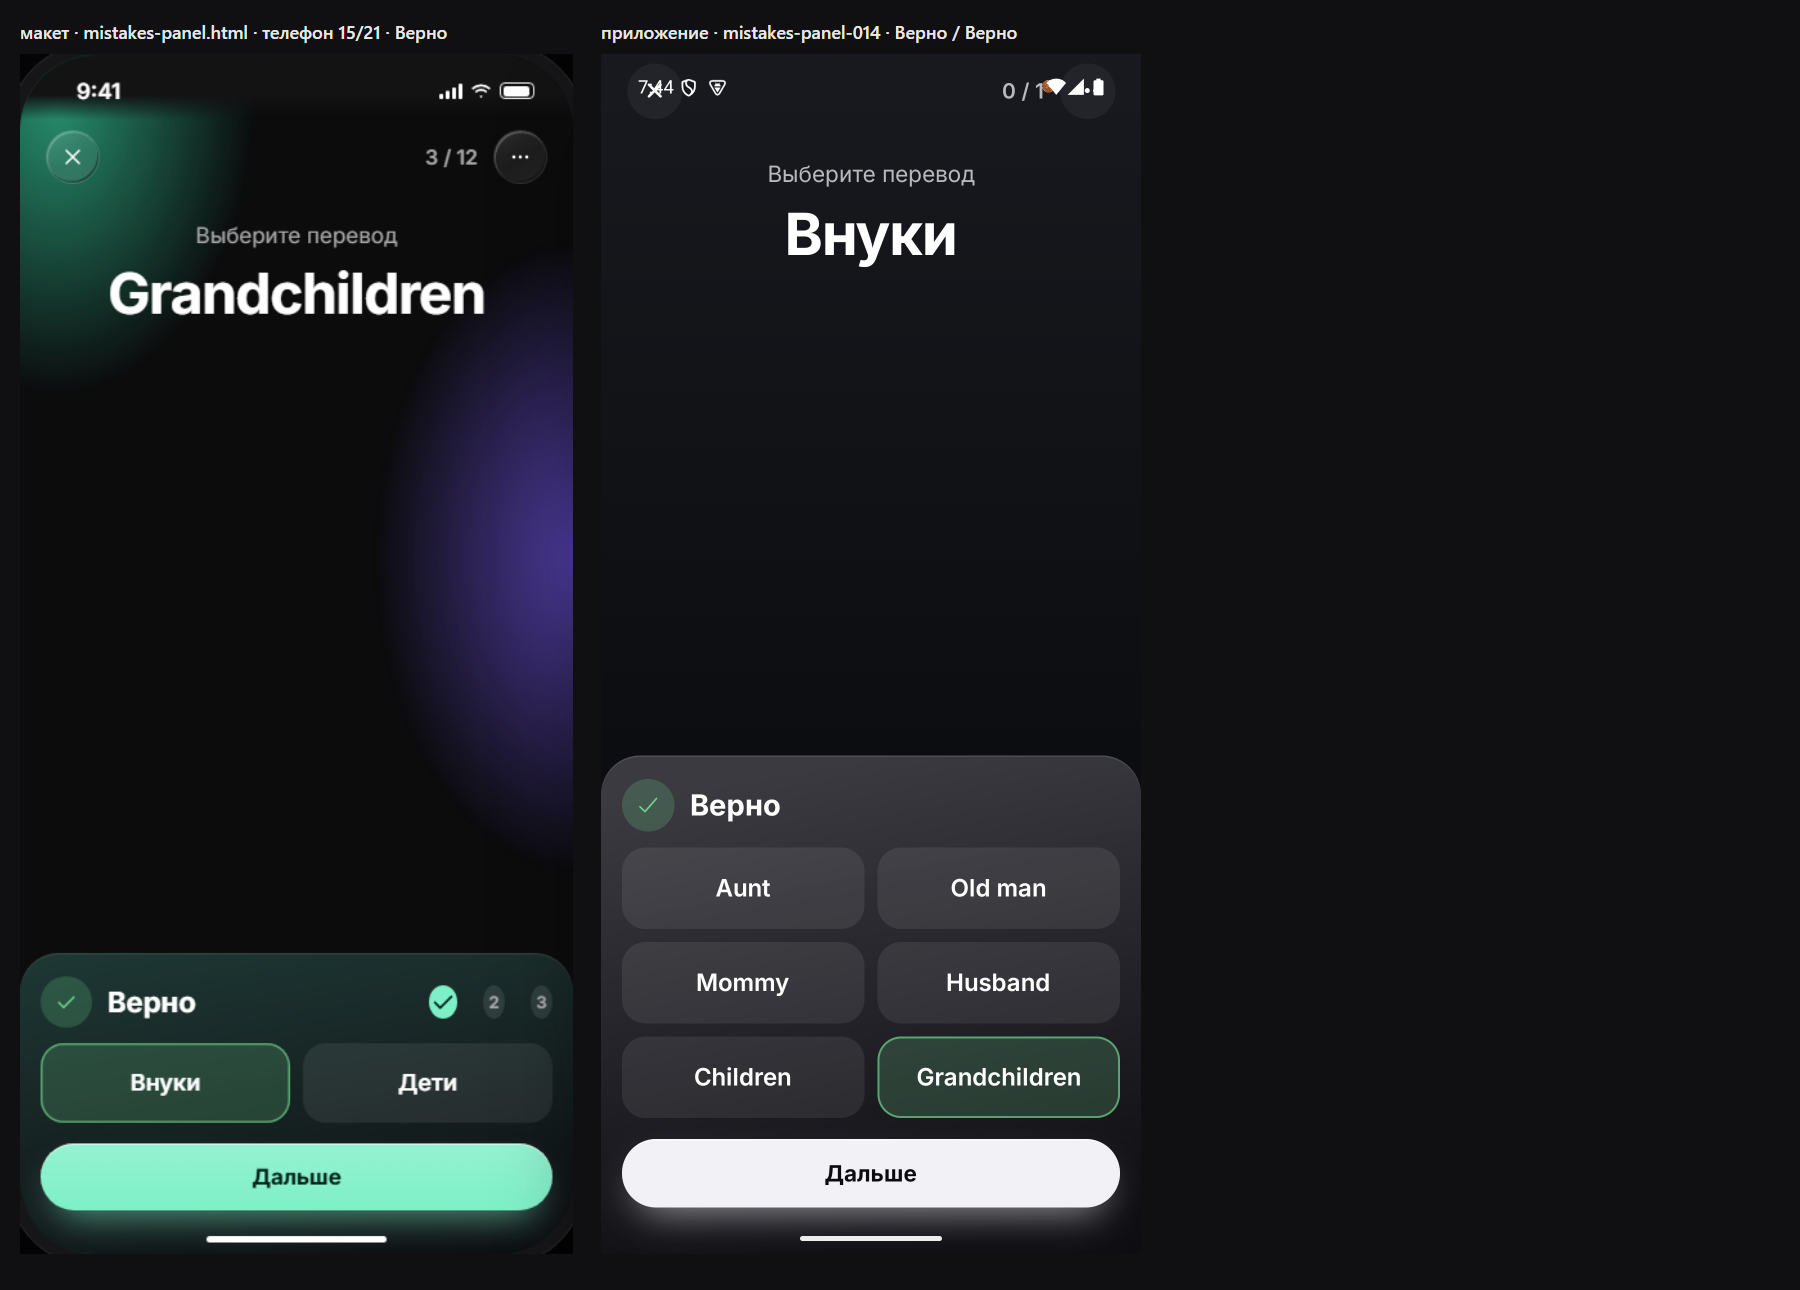
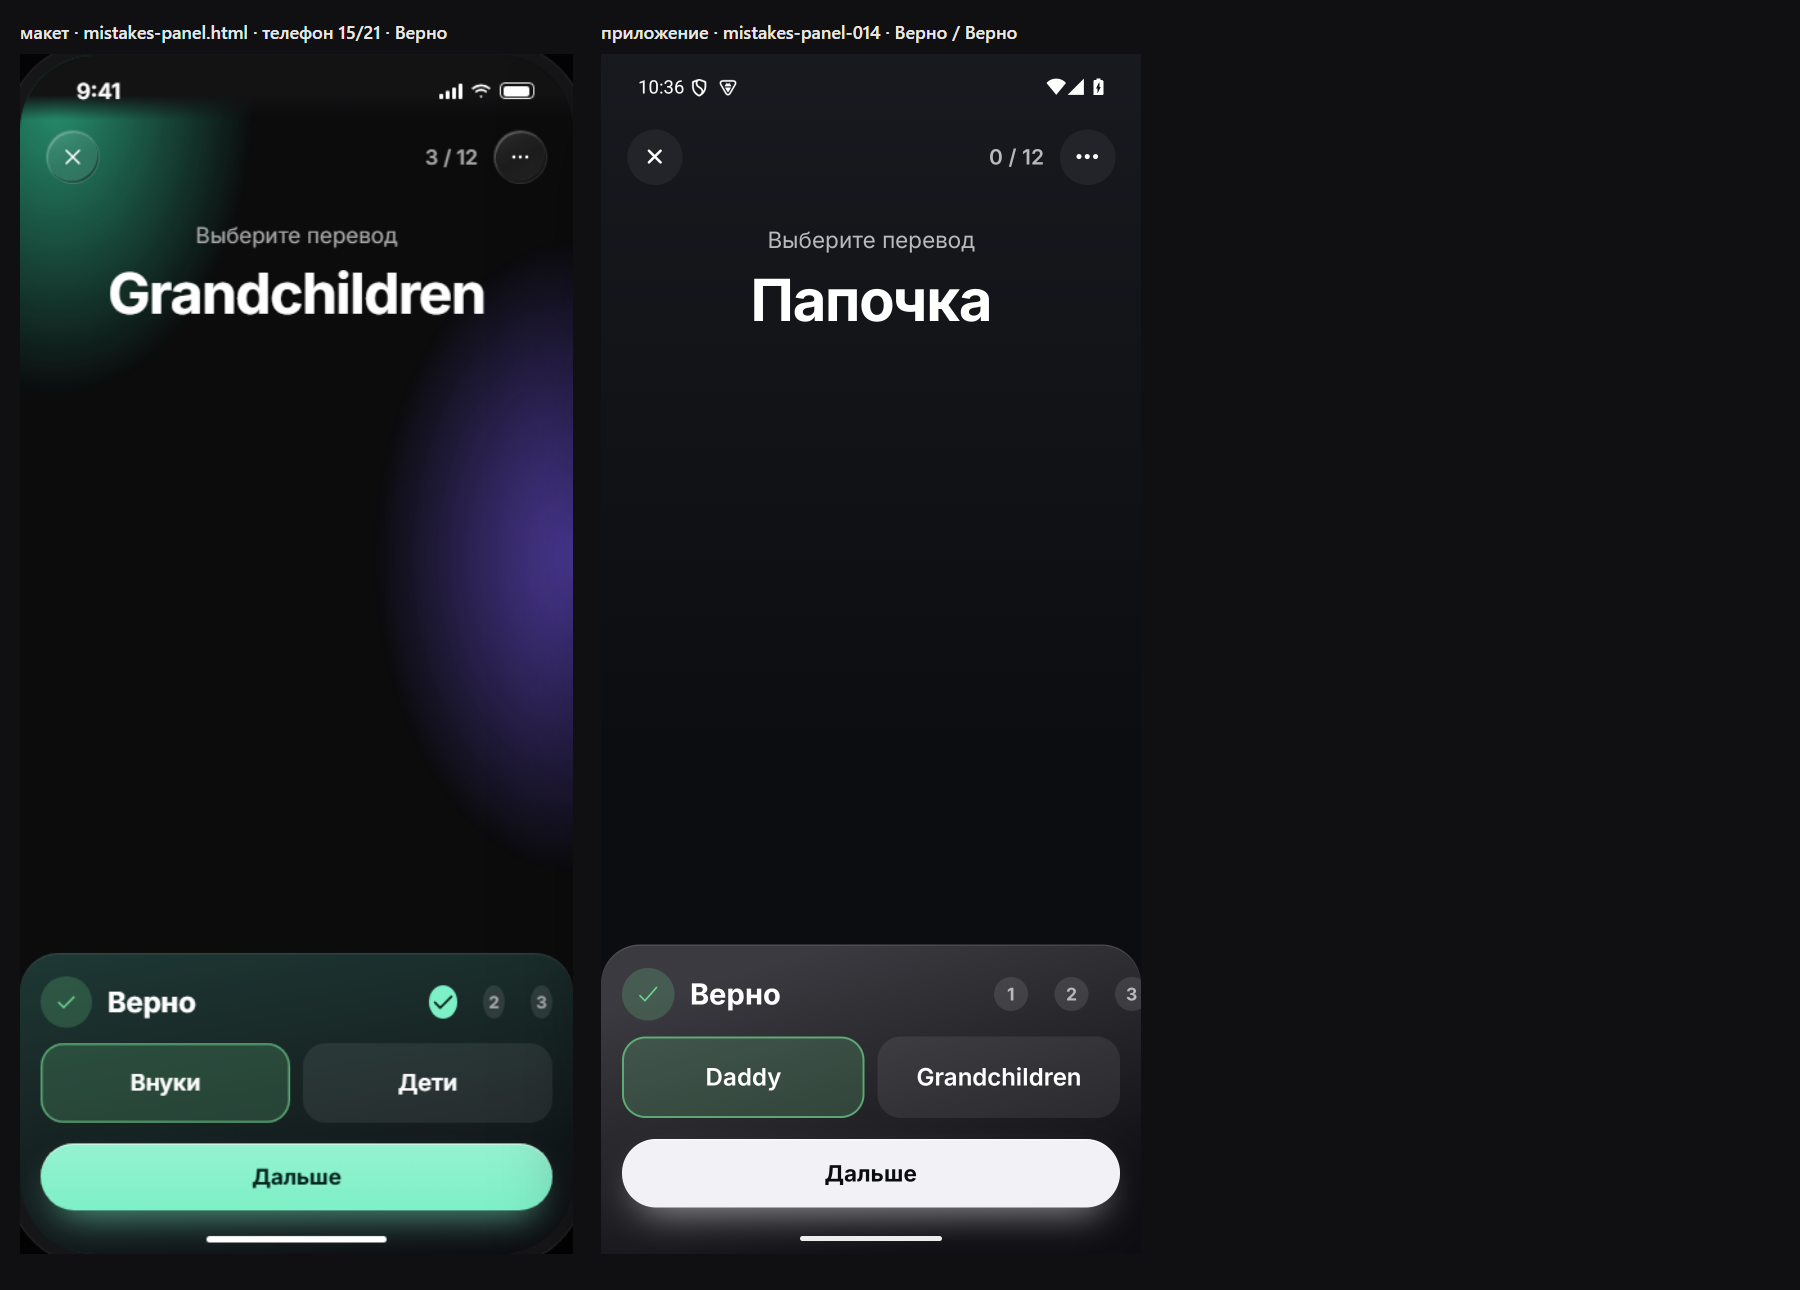
docs(sverka): прогон «Мои ошибки» 22:33 — 12 заданий ок, верный повтор не засчитан, счётчик 0/12; склейки кадров 15/16 и diffs

diff --git a/docs/phraseman-2.0/evidence/parity/MISTAKE_RUN_2026-10-04_2233.md b/docs/phraseman-2.0/evidence/parity/MISTAKE_RUN_2026-10-04_2233.md
@@ -1,0 +1,26 @@
+# Прогон «Мои ошибки» 22:33 (сверка, по заданию координатора)
+
+Путь: Главная → «Исправить ошибки» → «Мои ошибки» → «Все 12» → «Отработать 12» → «Начать ⚡1».
+Задание 1 «Муж» — неверно (Wife). Задание 2 «Папочка» — верно (Daddy).
+
+## Логи [MISTAKE-PRACTICE-PREPARE] / [MISTAKE-SESSION] (сжато)
+- PREPARE: projectionItems 12, restoredFound true, restoredCursor 2 / queueLength 2, restoredInitialCount 1 → `dropping stored session reason=already_finished` → **новая сессия на 12** (ИСПРАВЛЕНО: раньше давало 1 задание).
+- build: items 12, ready 12; queue 12 (lesson_choice ×6, arena_guess_phrase ×4, arena_find_oddity ×2).
+- new session: initialCount 12, savedNow false, deferSave true.
+- Ответ 1 (неверно): advance correct=false, requeue, queue 12→13; verdict:shown **ms 1**, attemptEffect attempt_consumed; verdict:chain ms 249.
+- Ответ 2 (верно): advance correct=true; verdict:shown **ms 0**, attemptEffect **none**; `missed:recovered before 1 after 1`; verdict:chain `{days:0, modes:0, requiredModes:1, gainedToday:false, corrected:false}`.
+
+## Что видно на экране
+1. 🔴 **Верный повтор не засчитан**: attemptEffect none, chain modes 0/1, corrected false, gainedToday false. Точки-шаги в шторке «Верно» все серые (в макете кадр 15 — первая с галочкой).
+2. 🔴 **Счётчик стоит 0 / 12** после двух ответов (в макете кадр 15/16 — 3 / 12).
+3. 🟡 **Шторка вердикта на экране не мгновенная**: в логах verdict:shown 0–1 мс, но на экране через 0.3 с её нет, «Верно» появилась между 1.2 и 2.2 с, «Почти» — к 2 с (эмулятор -gpu guest без окна — часть задержки может быть от него).
+4. Шторки: **2 варианта** (верный + выбранный) — ИСПРАВЛЕНО, как в макете.
+5. Шапка ✕ / счётчик / ⋯ ниже строки состояния — ИСПРАВЛЕНО (f58f8afa5).
+
+## Отличия вида (склейки PH15 / PH16)
+- Кадр 15 «Верно»: точки 1·2·3 крупнее и шире, «3» обрезана правым краем экрана; в макете маленькие, плотно, первая — заливка с галочкой.
+- Кадр 16 «Почти»: «Почему» узкая, в макете «Почему» и «Дальше» по ширине 50/50.
+- Кадр 16: объяснение общее («Свяжи значение со всей фразой…»), в макете конкретное про слово с жирным выделением.
+- Оба: направление RU→EN («Муж» → Husband), в макете EN→RU («Grandchildren» → Внуки).
+
+Склейки: mistakes-panel-PH15-right.png, mistakes-panel-PH16-wrong.png. Полный лог: C:\Temp\claude\sv\rn_mistakes.log.

diff --git a/docs/work/tasks/parity-kit-liquid-glass.md b/docs/work/tasks/parity-kit-liquid-glass.md
@@ -1,5 +1,12 @@
 # Task packet: стекло kit.css в приложении + сверка «приложение = макет»
 
+Governance-ID: TG-9CF92663B81E
+Governance-ID: TG-34248B5F8BF6
+Governance-ID: TG-C205A1E3D041
+Governance-ID: TG-61495B1B555A
+Governance-ID: TG-FF8BBB95828C
+Governance-ID: TG-7C3B87F7403F
+Governance-ID: TG-59D602A73A3E
 Governance-ID: TG-2DFCB2C79A78
 Governance-ID: TG-357907C77C6A
 Governance-ID: TG-05B957EF8C78
